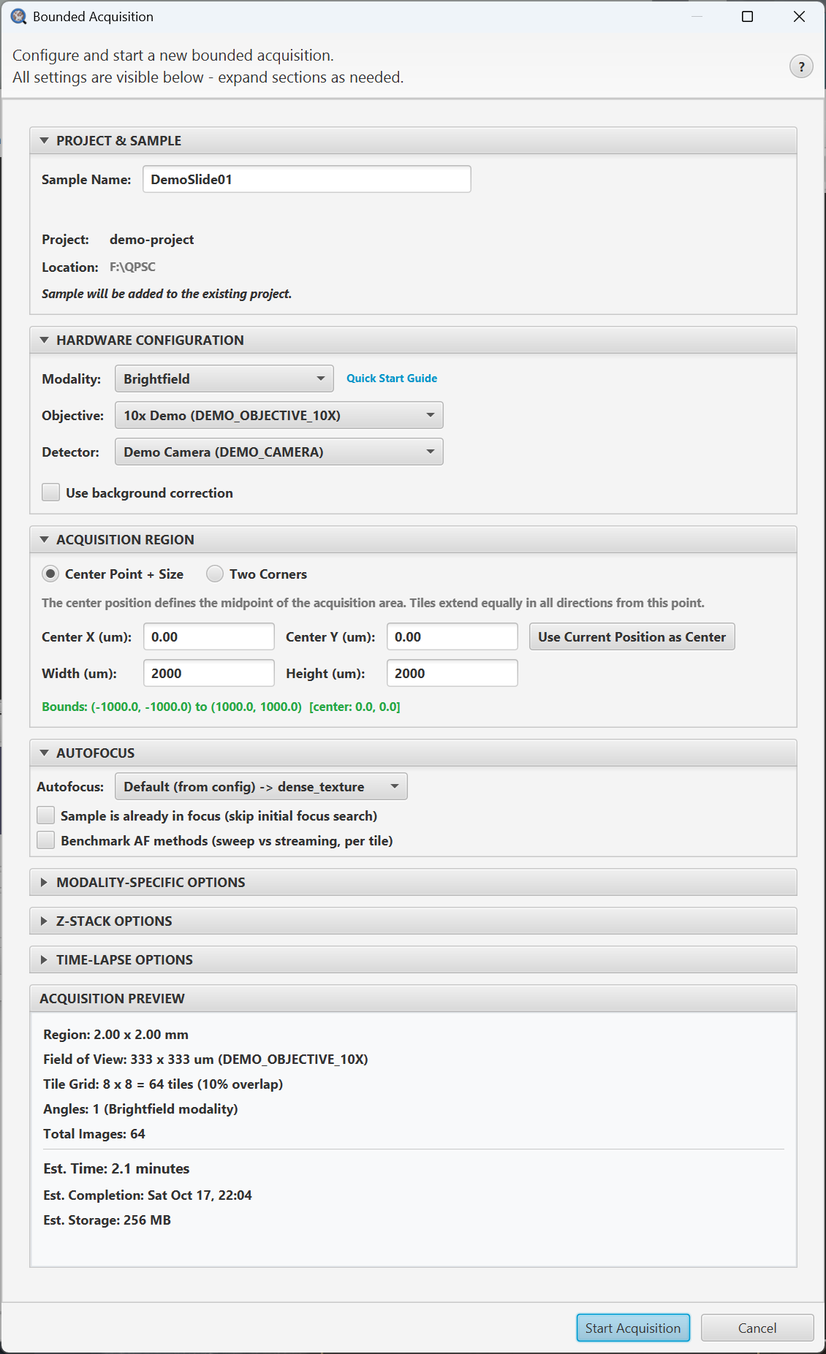
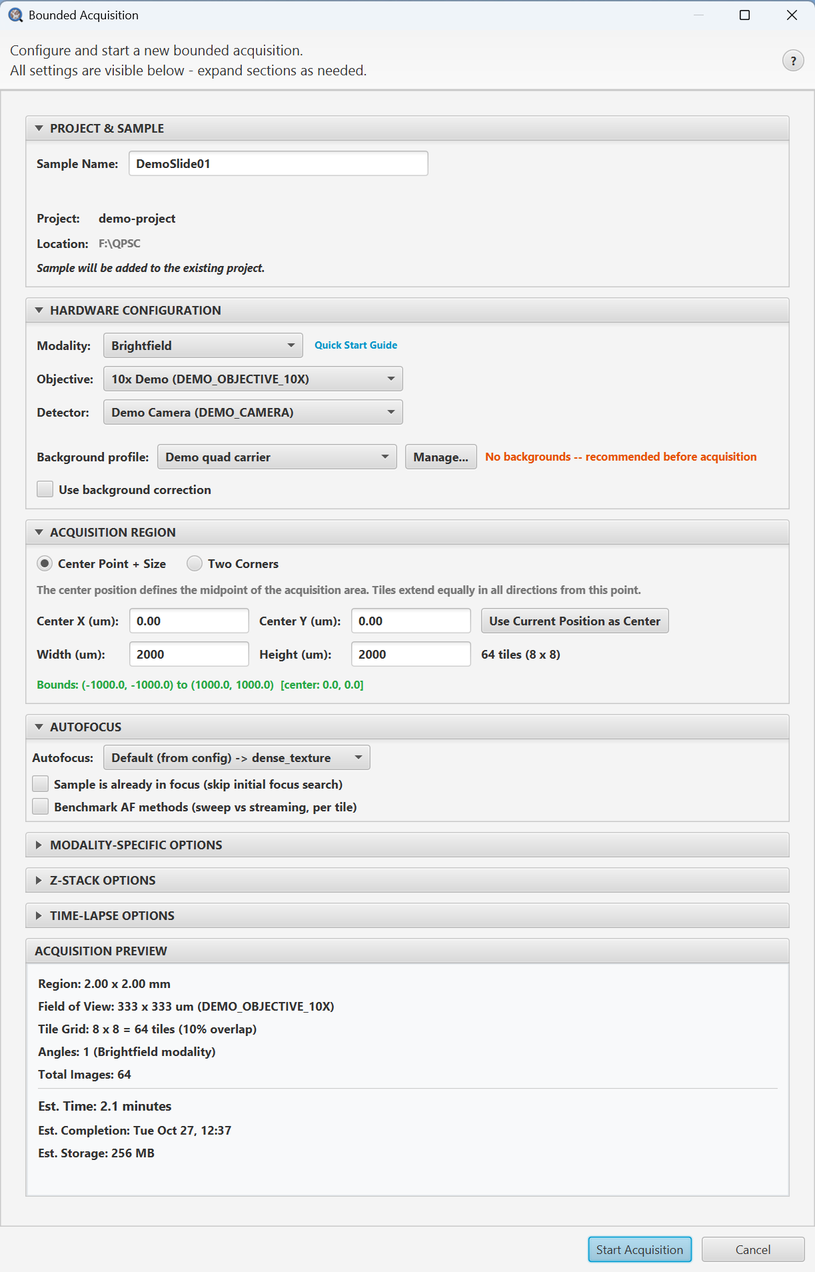
docs(images): re-capture six dialog and Live Viewer figures on the demo microscope; add the Background Profiles figure
Acquisition Wizard, Bounded Acquisition, Acquire from Existing Image (collapsed
and with the AUTOFOCUS / MODALITY-SPECIFIC / Z-STACK panes expanded),
Background Collection and the Live Viewer (histogram under the image, Go to Z
under the step) now show the Background profile row and the current layouts.
Captured on the Windows QuPath against the demo microscope, Modena Light, with
the "Demo quad carrier" profile active; the dialogs are rendered from the scene
graph at a width where the profile row fits and a height where nothing scrolls,
with the native title bar from the screen. New: Docs_BackgroundProfiles.png in
tools/background-profiles.md.

Claude-Session: https://claude.ai/code/session_01RGGpEUhYNeo6kpExXM8tGC

diff --git a/documentation/images/IMAGE_REGISTRY.md b/documentation/images/IMAGE_REGISTRY.md
@@ -10,23 +10,24 @@ This file tracks the relationship between documentation screenshots and the Java
 
 | Screenshot | Java Source File(s) | Last Verified | Status |
 |------------|-------------------|---------------|--------|
-| `Docs_AcquisitionWizard.png` | `ui/AcquisitionWizardDialog.java` | 2026-10-17 | CHECK -- the "Background profile" row (combo, Manage..., status; 2026-10-21) is missing from the figure; re-capture on the demo microscope with a profile active. Previously: re-captured on the demo microscope (Windows, Modena Light): icon acquire buttons and the Validate AF row. Demo checklist states (no JAI, so no per-mode WB dots); the PPM multi-dot states are described in the text, not shown |
+| `Docs_AcquisitionWizard.png` | `ui/AcquisitionWizardDialog.java` | 2026-10-27 | OK -- re-captured 2026-10-27 on the Windows QuPath (11, 150% display, downscaled to 100%) against the demo microscope, Modena Light, main `b4c82163`, profile "Demo quad carrier" active: the Background profile row (combo + Manage...) under Detector, the checklist states the demo gives (connected; no WB for a non-JAI camera; no backgrounds; no alignment), the Validate AF row, the icon acquire buttons. The PPM multi-dot WB states are described in the text, not shown |
 | `Docs_AcquisitionWorkflowProgress.png` | `ui/DualProgressDialog.java` | 2026-05-27 | OK |
 | `Docs_AnnotationAcquisition.png` | `ui/AnnotationAcquisitionDialog.java` | 2026-08-22 | OK -- re-captured (unannotated). Mapped to the actual class selection dialog rather than the broad ExistingImageAcquisitionController; the multi-tile refinement radio lives in the consolidated dialog, not here, so this no longer false-flags |
 | `Docs_AutofocusConfigurationEditor.png` | `controller/AutofocusEditorWorkflow.java` | 2026-05-27 | OK |
 | `Docs_AutofocusParameterBenchmark.png` | `ui/AutofocusBenchmarkDialog.java` | -- | CHECK |
-| `Docs_BackgroundCollection.png` | `ui/BackgroundCollectionController.java` | 2026-05-27 | CHECK -- the "Background profile" row (combo, Manage..., status; 2026-10-21) is missing from the figure; re-capture on the demo microscope with a profile active. Previously: OK |
-| `Docs_BoundedAcquisition.png` | `ui/UnifiedAcquisitionController.java` | 2026-10-17 | CHECK -- the "Background profile" row (combo, Manage..., status; 2026-10-21) is missing from the figure; re-capture on the demo microscope with a profile active. Previously: re-captured on the demo microscope (Windows, Modena Light) with the AUTOFOCUS pane expanded and MODALITY-SPECIFIC OPTIONS collapsed; brightfield, so no PPM angle content |
+| `Docs_BackgroundCollection.png` | `ui/BackgroundCollectionController.java` | 2026-10-27 | OK -- re-captured 2026-10-27 on the Windows QuPath (11, 150% display, downscaled to 100%) against the demo microscope, Modena Light, main `b4c82163`, profile "Demo quad carrier" active: Background folder (renamed from Output folder), Background profile row with Manage..., Acquisition Profile, lamp, exposure modes; the whole form, rendered from the scene graph with the native title bar so nothing scrolls |
+| `Docs_BackgroundProfiles.png` | `ui/BackgroundProfilesDialog.java` | 2026-10-27 | OK -- re-captured 2026-10-27 on the Windows QuPath (11, 150% display, downscaled to 100%) against the demo microscope, Modena Light, main `b4c82163`, profile "Demo quad carrier" active: the profile list with one active profile selected and its record (id, description, expects, created, sets, folder), New/Edit/Set active/Open folder/Delete |
+| `Docs_BoundedAcquisition.png` | `ui/UnifiedAcquisitionController.java` | 2026-10-27 | OK -- re-captured 2026-10-27 on the Windows QuPath (11, 150% display, downscaled to 100%) against the demo microscope, Modena Light, main `b4c82163`, profile "Demo quad carrier" active: the Background profile row (combo, Manage..., "No backgrounds" status) in HARDWARE CONFIGURATION; AUTOFOCUS expanded, MODALITY-SPECIFIC / Z-STACK / TIME-LAPSE collapsed; brightfield, so no PPM angle content. Rendered from the scene graph at 830 px wide (the row truncates narrower) |
 | `Docs_BoundedAcquisition_TileGrid.png` | Lab-meeting slide deck (workflow figure; not a single UI class) | 2026-06-01 | OK |
 | `Docs_CameraControl.png` | `ui/CameraControlController.java` | 2026-05-27 | OK |
 | `Docs_CommunicationSettings.png` | `ui/ServerConnectionController.java` | 2026-05-27 | OK |
 | `Docs_CommunicationSettings_Alerts.png` | `ui/ServerConnectionController.java` | 2026-05-27 | OK |
 | `Docs_CrossInstrumentWorkflow.png` | Lab-meeting slide deck (workflow figure; not a single UI class) | 2026-06-01 | OK |
-| `Docs_ExistingImage_ConsolidatedDialog.png` | `ui/ExistingImageAcquisitionController.java` | 2026-10-17 | CHECK -- the "Background profile" row (combo, Manage..., status; 2026-10-21) is missing from the figure; re-capture on the demo microscope with a profile active. Previously: re-captured on the demo microscope (Windows, Modena Light); the demo image's auto-registered alignment, collapsed AUTOFOCUS / MODALITY-SPECIFIC / Z-STACK headers; see `Docs_ExistingImage_Modality_Zstack.png` for those expanded |
+| `Docs_ExistingImage_ConsolidatedDialog.png` | `ui/ExistingImageAcquisitionController.java` | 2026-10-27 | OK -- re-captured 2026-10-27 on the Windows QuPath (11, 150% display, downscaled to 100%) against the demo microscope, Modena Light, main `b4c82163`, profile "Demo quad carrier" active: the Background profile row, the demo image's auto-registered alignment, collapsed AUTOFOCUS / MODALITY-SPECIFIC / Z-STACK headers, one Tissue annotation (36 tiles). Rendered from the scene graph at 820 px wide so nothing scrolls; see `Docs_ExistingImage_Modality_Zstack.png` for the panes expanded |
 | `Docs_ExistingImage_FluorescenceProject.png` | Lab-meeting slide deck (QuPath project view; not a single UI class) | 2026-06-01 | OK |
-| `Docs_ExistingImage_Modality_Zstack.png` | `ui/ExistingImageAcquisitionController.java` | 2026-10-17 | OK -- re-captured on the demo microscope: AUTOFOCUS, MODALITY-SPECIFIC (brightfield exposure) and Z-STACK panes expanded, cropped from a JavaFX render of the dialog content. A PPM version would show the angle checkboxes instead |
-| `Docs_LiveViewer.png` | `ui/liveviewer/LiveViewerWindow.java` | 2026-08-22 | OK -- re-captured (unannotated; the numbered callouts from the 2026-05-27 figure are gone) |
-| `Docs_LiveViewer_Navigate.png` | `ui/liveviewer/StageControlPanel.java` (Navigate tab only) | 2026-09-19 | CHECK -- the Z position field and Move Z button moved from Move to Position into the Z Focus section (2026-10-19), so the figure shows the old layout. Re-capture. The class also builds the Camera tab, so camera-only edits flag this figure spuriously; the Navigate tab has the joystick, Coarse/Fine Z bars, Move to Position and Calibrate Directions, and no camera controls |
+| `Docs_ExistingImage_Modality_Zstack.png` | `ui/ExistingImageAcquisitionController.java` | 2026-10-27 | OK -- re-captured 2026-10-27 on the Windows QuPath (11, 150% display, downscaled to 100%) against the demo microscope, Modena Light, main `b4c82163`, profile "Demo quad carrier" active: AUTOFOCUS, MODALITY-SPECIFIC (brightfield exposure) and Z-STACK panes expanded, Z-stack enabled, cropped from a JavaFX render of the dialog content. A PPM version would show the angle checkboxes instead |
+| `Docs_LiveViewer.png` | `ui/liveviewer/LiveViewerWindow.java` | 2026-10-27 | OK -- re-captured 2026-10-27 on the Windows QuPath (11, 150% display, downscaled to 100%) against the demo microscope, Modena Light, main `b4c82163`, profile "Demo quad carrier" active, live on the demo H&E slide at 10x: Hist: Bottom, so the Histogram & Contrast panel sits under the image and the Navigate tab runs down to the status bar; Go to Z and Move Z under the Z step. Unannotated |
+| `Docs_LiveViewer_Navigate.png` | `ui/liveviewer/StageControlPanel.java` (Navigate tab only) | 2026-10-27 | OK -- cropped from the same 2026-10-27 Live Viewer capture: step, joystick, Coarse/Fine Z bars, Mark Z, Go to Z + Move Z under the step size, Move to Position (X/Y only: the demo has no rotation stage), Calibrate Directions. The class also builds the Camera tab, so camera-only edits flag this figure spuriously |
 | `Docs_LiveViewer_SavedPoints.png` | `ui/liveviewer/StageControlPanel.java` (Saved Points tab only) | 2026-07-22 | CHECK -- shares a source class with the Navigate and Camera tabs, so it flags on camera edits that cannot affect it; verify before re-capturing |
 | `Docs_LiveViewer_Camera.png` | `ui/liveviewer/LiveViewerWindow.java` (camera tab) | -- | CHECK -- previously untracked |
 | `Docs_MicroscopeAlignment_SelectSourceMicroscope.png` | `ui/MicroscopeSelectionDialog.java` | -- | CHECK |

diff --git a/documentation/tools/background-profiles.md b/documentation/tools/background-profiles.md
@@ -62,6 +62,10 @@ When you change the **Insert** in the Stage Map and exactly one profile declares
 | Delete... | Removes the profile folder and every background in it, after confirmation. |
 | Adopt old folders... | Shown only when folders from before profiles exist under the background folder: moves the ticked ones into a profile. |
 
+![Background Profiles dialog on the demo microscope: one profile, "Demo quad carrier", active, with its record below the list](../images/Docs_BackgroundProfiles.png)
+
+*The dialog on the demo microscope with one profile active. The lines under the list are the selected profile's record: id, description, what it expects, when it was created, which background sets it holds, and its folder.*
+
 ## What is checked, what is recorded
 
 Before an acquisition locks the stage, the usual background check (lamp level, exposure) also compares the active profile's `expects` with the current setup: the insert selected in the Stage Map and the slide's recorded **Slide in holder** setting (the open image's, else its base image's; nothing is compared when none is recorded). A difference is a warning with **Proceed Anyway / Cancel**, never a block, like every other background mismatch. Nothing in `attributes` is checked.
